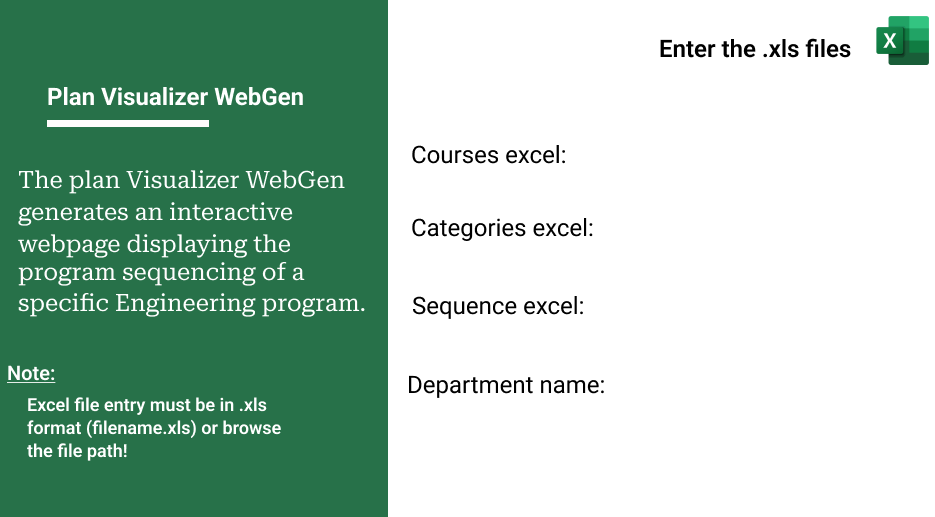
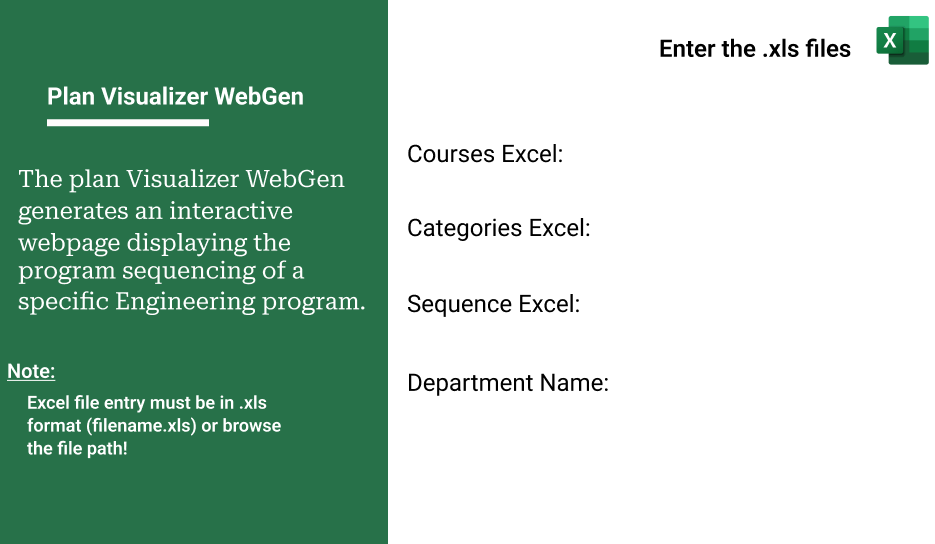
Fixed gramer errors and Added a progress bar. Still working on progress Error handling

diff --git a/src/main.py b/src/main.py
@@ -30,6 +30,7 @@ from tkinter import filedialog
 from PIL import ImageTk, Image
 
 
+
 # Debug function for cleanly printing contents of plan sequences
 # Parameters:
 #   sequenceDict - dict mapping plan names to a dict containing plan seqeunce
@@ -43,9 +44,42 @@ def debug(sequenceDict):
             print("\n")
         print("\n")
  
+window = Tk()
+window.title('plan visualizer WebGen')
+window.iconbitmap('C:output/images/favicon.ico')
+window.geometry("1092x544")
+window.configure(bg = "#ffffff")
+canvas = Canvas(
+    window,
+    bg = "#ffffff",
+    height = 544,
+    width = 1092,
+    bd = 0,
+    highlightthickness = 0,
+    relief = "ridge")
+canvas.place(x = 0, y = 0)
+window.resizable(False, False)
+
+def add_progbar():
+    global progbar
+    progbar = ttk.Progressbar(
+    window,
+    orient='horizontal',
+    mode='determinate',
+    length=280
+    )
+    progbar.place(
+    x=635, y=480
+    )
 
 
+def progress():
+    progbar['value']+= 8.5
+    window.update_idletasks()
+    return progbar['value']
+    
 def main():
+    add_progbar()
     print("Beginning generation...")
     # opening the template html file and constructing html
     # note: here we calling parsing to extract the course data!
@@ -58,6 +92,7 @@ def main():
             print("Opening files...")
             controller = open("./output/js/controller.js", "w")
             indexJS = open("./output/js/index.js", "w")
+            progress()
 
             #opening the CSS file
             categoryCSS = open("./output/styles/category.css", "w")
@@ -68,18 +103,22 @@ def main():
             # parsing the excel files with course info, pulls dependencies (prereqs, coreqs, reqs) too
             print("Parsing courses...")
             courseDict = courseparsing.parseCourses(courses_excel.get())
+            progress()
             
             # pulling the category and color info from excel
             print("Parsing categories...")
             courseDict, categoryDict = categoriesparsing.parseCategories(courseCat_excel.get(), courseDict)
+            progress()
 
             # writing colour highlighting CSS
             print("Writing category CSS...")
             cssgen.writeCategoryCSS(categoryDict, categoryCSS)
-            
+            progress()
+
             # sequencing courses
             print("Parsing sequences....")
             sequenceDict = sequenceparsing.parseSeq(seq_excel.get(), courseDict)
+            progress()
 
             # extracting dept name for program sequence
             deptName = department.get()
@@ -98,6 +137,7 @@ def main():
                                                         courseGroupList, 
                                                         controller)
 
+            progress()
             #locating title tag
             titleTag = soup.body.find("a", class_="site-title")
 
@@ -109,6 +149,7 @@ def main():
             # customizing webpage title
             print("Writing title....")
             htmlgen.switchTitle(titleTag, deptName)
+            progress()
 
             # locating form tag
             formTag = mainTag.find("form")
@@ -116,6 +157,7 @@ def main():
             # placing main radio inputs
             print("Placing radio inputs....")
             htmlgen.placeRadioInputs(formTag, courseGroupDict, soup)
+            progress()
 
             # locating course group selector
             courseGroupSelectTag = soup.body.find("div", class_="coursegroupselector")
@@ -129,22 +171,26 @@ def main():
             # places legend for color-coding
             print("Placing legend....")
             htmlgen.placeLegend(legendTag, categoryDict, soup)
+            progress()
 
             # Generating display tag, this is where the course divs will be written
             print("Generating display tag...")
             displayTag = htmlgen.generateDisplayDiv(soup, courseGroupList)
+            progress()
 
             mainTag.append(displayTag)
 
             #placing the HTML and generating JS based on the courses (drawing lines)
             print("Placing course diagram....")
             htmlgen.placePlanDivs(displayTag, sequenceDict, soup, indexJS, controller, lineManager)
+            progress()
 
             # closing JS and CSS files
             print("Closing files...")
             javascriptgen.closeControllerJavaScript(controller)
             indexJS.close()
             categoryCSS.close()
+            progress()
 
     except FileNotFoundError as err:
        print("Exception raised: " + 
@@ -169,6 +215,8 @@ def main():
              ". The directory you are in does not have a directory named output.")
     print("Generation Completed!")
     messagebox.showinfo('Status',message="Webpage successfully generated!")
+    progress()
+    progbar.destroy()
 
 
 def btn_clicked():
@@ -223,7 +271,7 @@ def new_window():
     my_canvas.create_window((0,0), window=second_frame, anchor="nw")
 
     header = Message(second_frame, 
-    text="plan visualizer WebGen\nuser manual",
+    text="Plan Visualizer WebGen\nUser Manual",
     aspect=800,
     justify=CENTER,
     font= ('Helvetica 15 underline')
@@ -246,7 +294,7 @@ def new_window():
     message1.grid(row=1, column=0,padx=20, pady=20)
 
     message2 = Label(second_frame, 
-    text="2- Make sure you have the following excel files (All Excel files must be in the .xls format): "
+    text="2- Make sure you have the following Excel files (All Excel files must be in the .xls format): "
     )
     message2.grid(row=2, column=0,padx=20, pady=20)
     #courses.xls image
@@ -271,21 +319,21 @@ def new_window():
     img_label3.grid(row=3, column=2, padx=150)
 
     #excel file description
-    pic1_description = Label(second_frame, text="This excel file must contain\nall individual course information")
+    pic1_description = Label(second_frame, text="This Excel file must contain\nall individual course information.")
     pic1_description.grid(row=4, column=0)
 
-    pic2_description = Label(second_frame, text="This excel file must contain course categories\nand all courses that fall under each category")
+    pic2_description = Label(second_frame, text="This Excel file must contain course categories\nand all courses that fall under each category.")
     pic2_description.grid(row=4, column=1)
 
-    pic3_description = Label(second_frame, text="This excel file must contain\nall possible plan sequences")
+    pic3_description = Label(second_frame, text="This Excel file must contain\nall possible plan sequences.")
     pic3_description.grid(row=4, column=2)
 
     message3 = Label(second_frame, 
-    text="3- Type in the excel file name (if it's present in the same directory as the program files) or\n provide it's path:"
+    text="3- Type in the Excel file name (if it's present in the same directory as the program files) or\n provide it's path:"
     )
     message3.grid(row=5, column=0,padx=20, pady=25)
 
-    #Sequencing.xls image
+    #GUI image 
     tutorial_img = Image.open("C:GUI_images/tutorial.png")
     resized_img = tutorial_img.resize((500,300))
     new_tutorial = ImageTk.PhotoImage(resized_img)
@@ -303,22 +351,6 @@ def new_window():
     web_label = Label(second_frame, image=new_web_img)
     web_label.grid(row=8, column=1)
 
-#Main Window
-window = Tk()
-window.title('plan visualizer WebGen')
-window.iconbitmap('C:output/images/favicon.ico')
-window.geometry("1092x517")
-window.configure(bg = "#ffffff")
-canvas = Canvas(
-    window,
-    bg = "#ffffff",
-    height = 517,
-    width = 1092,
-    bd = 0,
-    highlightthickness = 0,
-    relief = "ridge")
-canvas.place(x = 0, y = 0)
-window.resizable(False, False)
 
 menubar = Menu(window)
 window.config(menu=menubar)
@@ -350,7 +382,8 @@ courseEntry_bg = canvas.create_image(
 courses_excel = Entry(
     bd = 0,
     bg = "#d9d9d9",
-    highlightthickness = 0)
+    highlightthickness = 0,
+    font='halvetica 12')
 courses_excel.insert(tkinter.END, "")
 courses_excel.place(
     x = 635, y = 135,
@@ -366,7 +399,8 @@ catEntry_bg = canvas.create_image(
 courseCat_excel = Entry(
     bd = 0,
     bg = "#d9d9d9",
-    highlightthickness = 0)
+    highlightthickness = 0,
+    font='halvetica 12')
 courseCat_excel.insert(tkinter.END, "")
 courseCat_excel.place(
     x = 635, y = 212,
@@ -382,7 +416,8 @@ seqEntry_bg = canvas.create_image(
 seq_excel = Entry(
     bd = 0,
     bg = "#d9d9d9",
-    highlightthickness = 0)
+    highlightthickness = 0,
+    font='halvetica 12')
 seq_excel.insert(tkinter.END, "")
 seq_excel.place(
     x = 635, y = 289,
@@ -397,7 +432,8 @@ deptEntry_bg = canvas.create_image(
 department = Entry(
     bd = 0,
     bg = "#d9d9d9",
-    highlightthickness = 0)
+    highlightthickness = 0,
+    font='halvetica 12')
 
 department.place(
     x = 635, y = 366,
@@ -406,7 +442,7 @@ department.place(
 
 background_img = PhotoImage(file = f"GUI_images/background.png")
 background = canvas.create_image(
-    467.5, 258.5,
+    467.5, 272.0,
     image=background_img)
 
 
